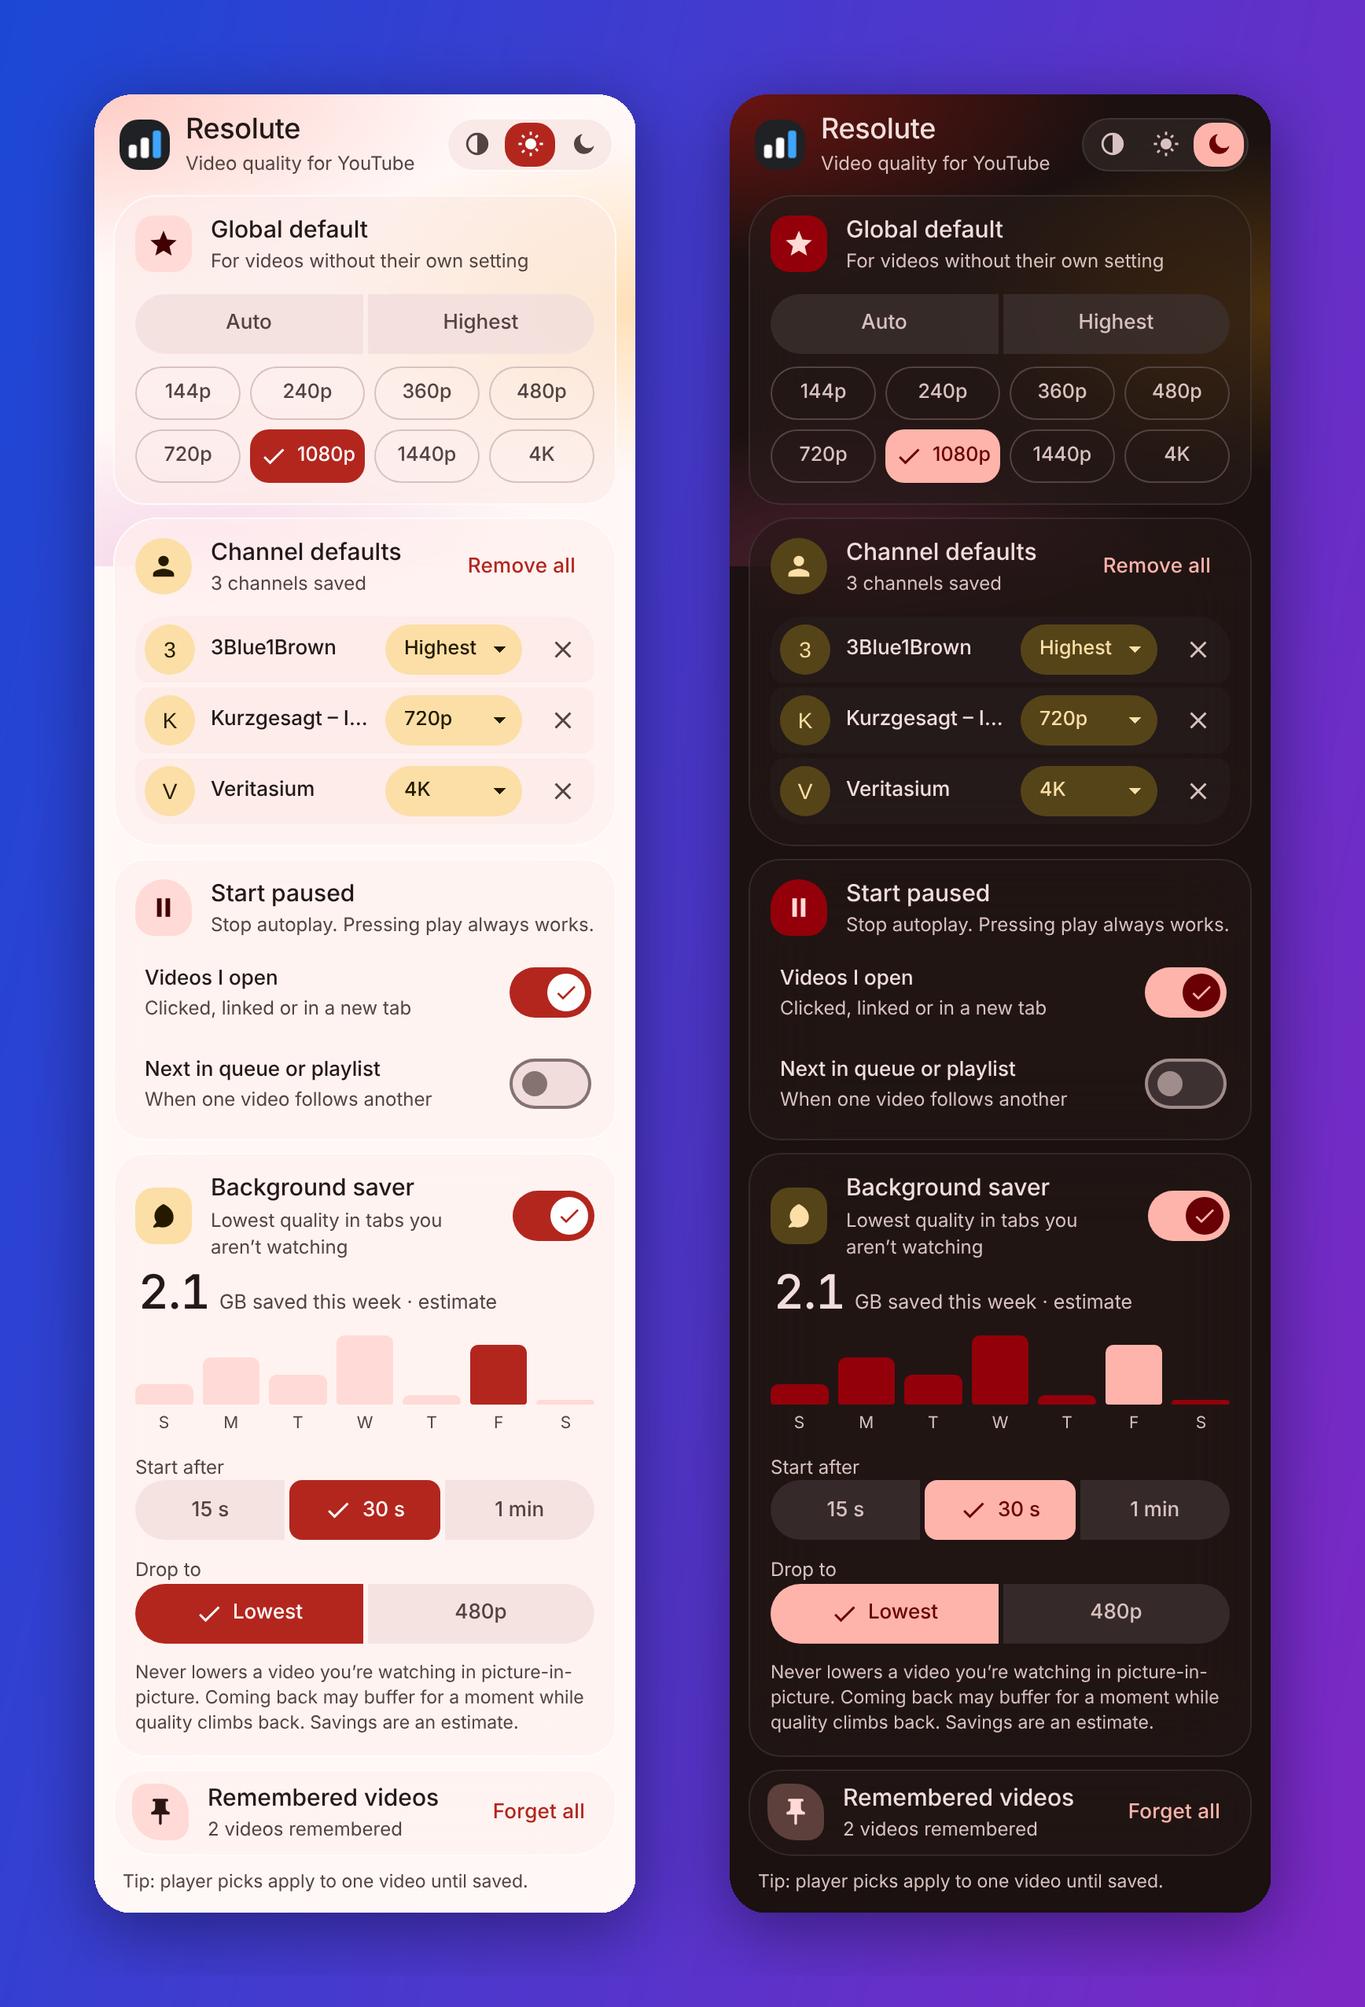
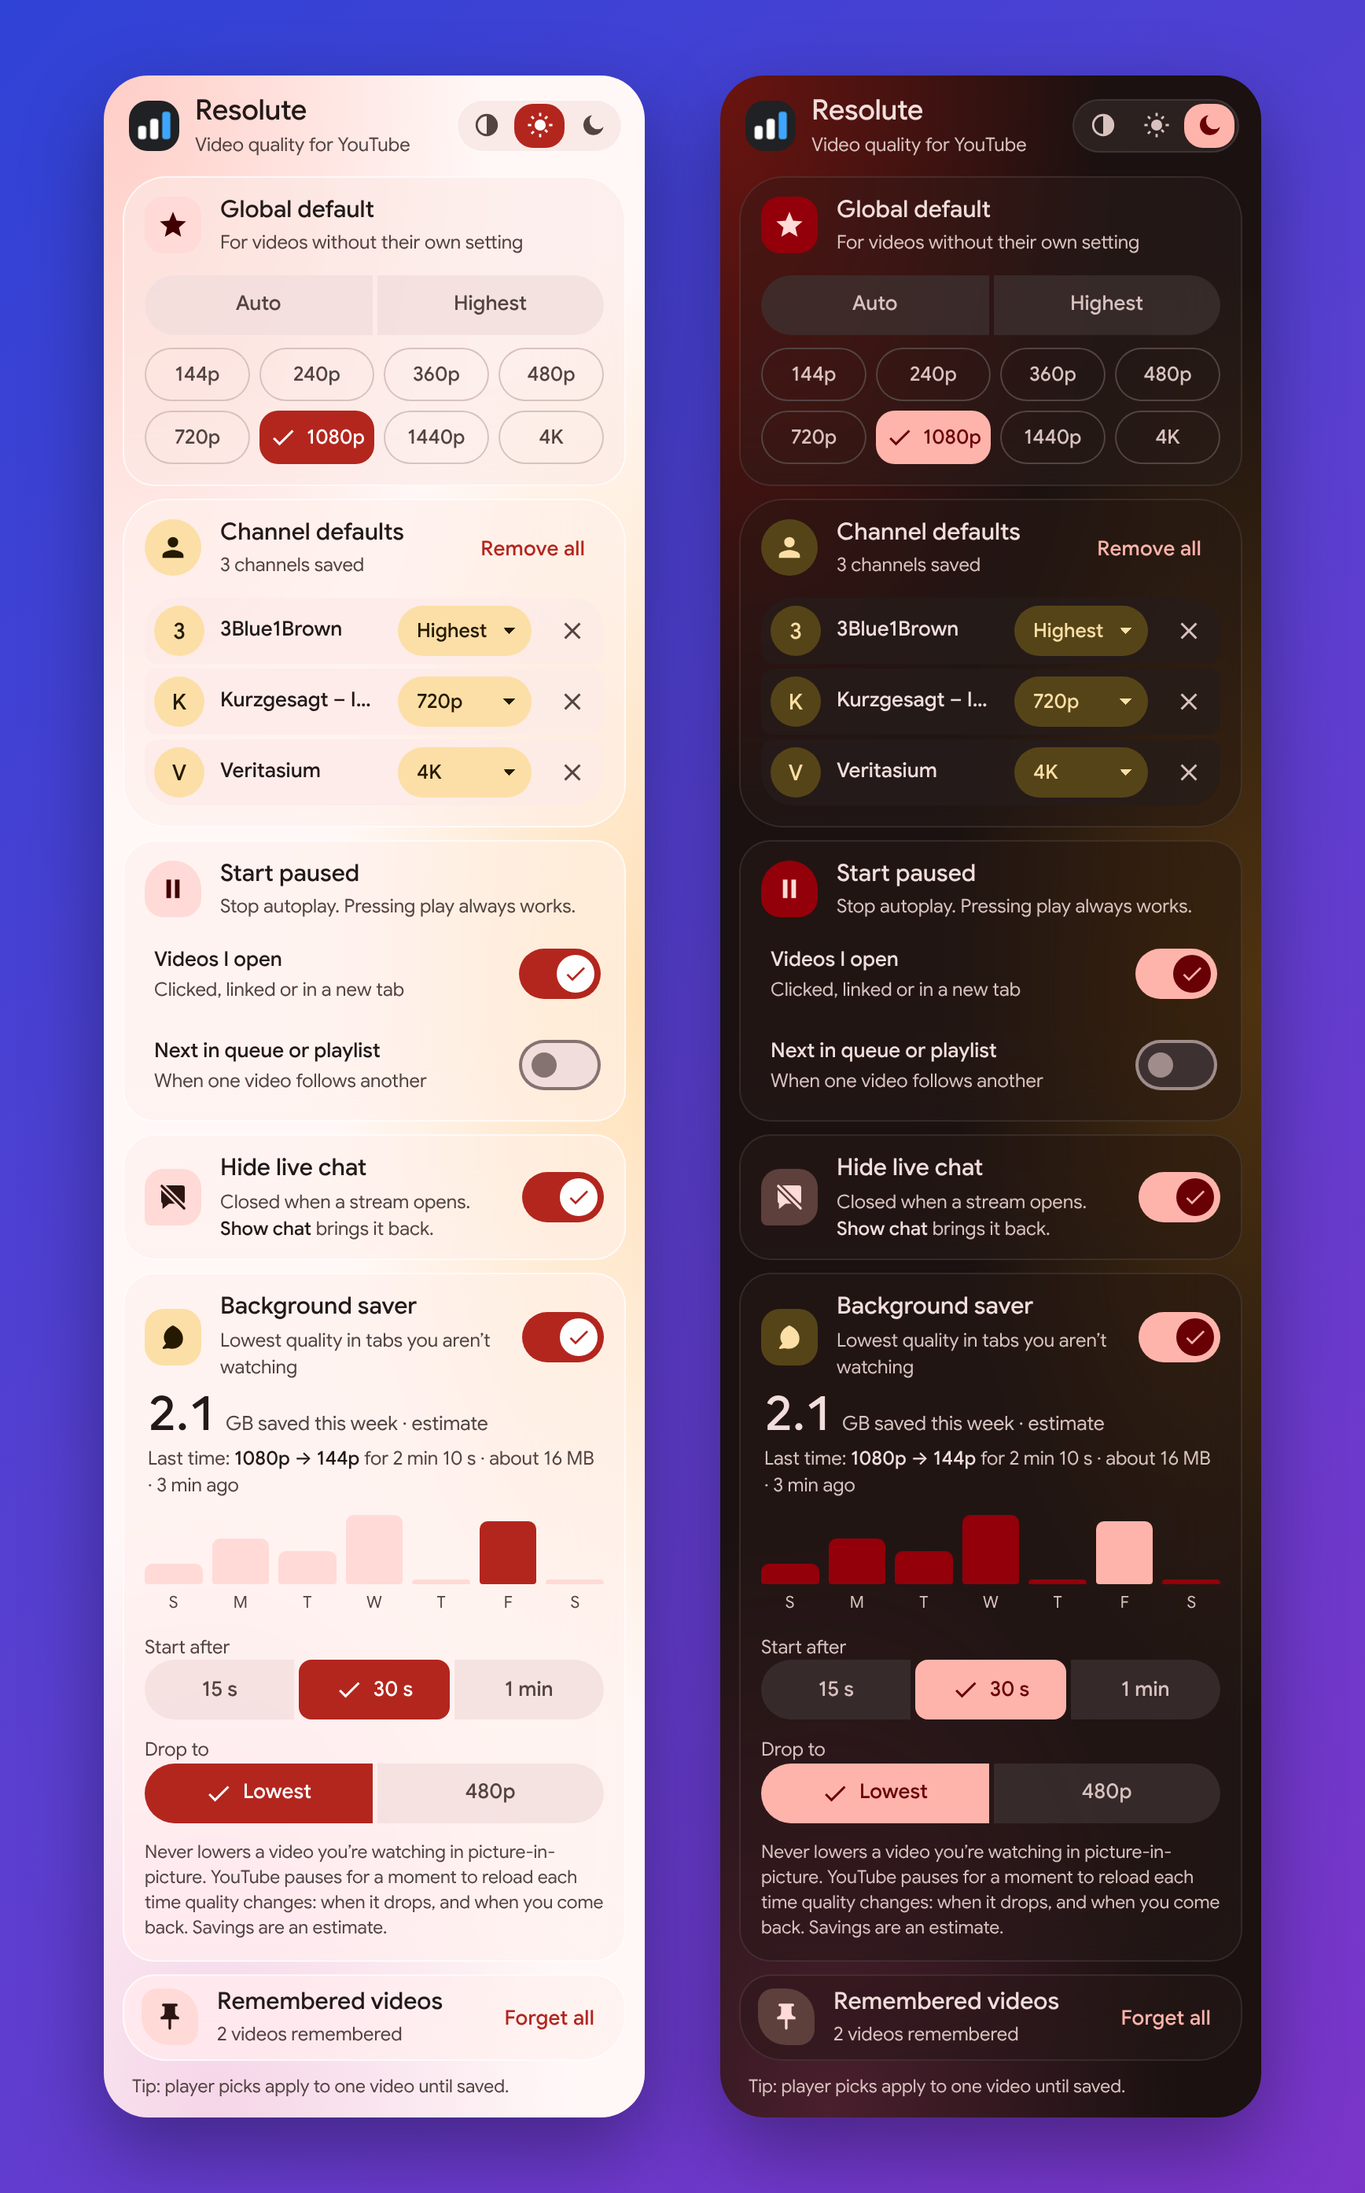
Docs: hide live chat in README, privacy policy and store listings; refresh popup screenshot
Claude-Session: https://claude.ai/code/session_017YcEW4ynsdhgFf3u9gFA3h

Changed region(s): [[0.0, 0.031, 0.4977, 1.0], [0.5288, 0.031, 0.9332, 0.9906]]

diff --git a/README.md b/README.md
@@ -13,13 +13,14 @@
 <p align="center">
   <b>YouTube often picks a lower quality than you want, and starts videos before you're ready.</b><br>
   Resolute puts a quality button right in the player, remembers what you like per video and per channel,<br>
-  and, if you want, makes every video wait for <i>you</i> to press play, and saves data in tabs you aren't watching.
+  and, if you want, makes every video wait for <i>you</i> to press play, hides live chat, and saves data in tabs you aren't watching.
 </p>
 
 <p align="center">
   <a href="#install">Install</a> ·
   <a href="#quality">Quality button</a> ·
   <a href="#autoplay">No autoplay</a> ·
+  <a href="#chat">Hide live chat</a> ·
   <a href="#saver">Background saver</a> ·
   <a href="#popup">Popup</a> ·
   <a href="#faq">FAQ</a> ·
@@ -141,6 +142,23 @@ Keyboard: Tab to the button (it unfolds), Enter toggles both, ↓ opens the menu
 
 ---
 
+<a id="chat"></a>
+## 💬 Hide live chat
+
+Off by default. Switch it on in the toolbar popup.
+
+When you open a live stream, a premiere or a stream replay, Resolute closes the chat panel beside the video. It uses **YouTube's own close button**, so nothing on the page is broken or hidden in a way YouTube doesn't know about.
+
+| Situation | What happens |
+|:---|:---|
+| You open a stream that has chat | The chat closes as soon as it has loaded |
+| You click YouTube's **Show chat** | The chat opens and **stays open** for that video |
+| You open the next stream | Its chat closes again |
+| A normal video (no chat) | Nothing happens |
+| The creator turned chat off | Nothing happens; Resolute stops looking after about a minute |
+
+---
+
 <a id="saver"></a>
 ## 🍃 Background saver
 
@@ -181,6 +199,7 @@ The popup card also shows roughly how much data it saved **this week (Sunday to 
 
 - Set the **global default** quality.
 - Switch **Videos I open** and **Next in queue or playlist** to start paused.
+- Switch **Hide live chat** on or off.
 - Switch the **Background saver** on or off, choose when it starts and how low it goes, and see this week's estimate.
 - See every **channel default**: change its quality, remove it (×), or **Remove all**.
 - Clear remembered videos with **Forget all**.
@@ -221,7 +240,7 @@ Each has its own rules; see the [Chrome guide, section 5](docs/PUBLISHING.md#5-l
 <details>
 <summary><b>Does it send my data anywhere?</b></summary>
 
-No. There's no code that makes network requests. Your global default, the two autoplay settings and the saver setting are kept in your browser's synced extension storage; remembered videos, channel defaults and the saver's daily estimates stay on this device only. Full details in the [privacy policy](PRIVACY.md).
+No. There's no code that makes network requests. Your global default, the two autoplay settings, the hide-live-chat setting and the saver setting are kept in your browser's synced extension storage; remembered videos, channel defaults and the saver's daily estimates stay on this device only. Full details in the [privacy policy](PRIVACY.md).
 </details>
 
 <details>
@@ -239,7 +258,7 @@ From the permanent channel ID (`UC…`) in YouTube's own player data for the vid
 <details>
 <summary><b>Will it break if YouTube changes its layout?</b></summary>
 
-Playback is never affected. If YouTube moves its controls, the quality button falls back to a small floating control above the progress bar. If YouTube redesigns its top bar, the autoplay button may not appear, but the popup switch keeps working.
+Playback is never affected. If YouTube moves its controls, the quality button falls back to a small floating control above the progress bar. If YouTube redesigns its top bar, the autoplay button may not appear, but the popup switch keeps working. If YouTube changes its live chat panel, the chat simply stays open; nothing else is affected.
 </details>
 
 <details>
@@ -260,6 +279,7 @@ No. Shorts and m.youtube.com use a different player. The autoplay settings also 
 - "Next in queue or playlist" means the previous video played to its end and you didn't click or type before the next one started. If you click something in that moment, the next video counts as one you opened.
 - Material 3 Expressive spring motion uses CSS `linear()` easing (Chrome 113+, Firefox 112+). On Chrome 111–112 the button works the same, just without animation.
 - Channel defaults need the channel ID from YouTube's player data (`getPlayerResponse`). If YouTube stops providing it, videos fall back to the global default ("Channel not detected"). Nothing wrong is applied.
+- **Hide live chat** clicks the close button inside YouTube's chat panel. If YouTube renames that button, the chat just stays open until Resolute is updated. Chat that loads more than about a minute after the page opens is left open.
 - Remembered videos and channel defaults stay on the device where you saved them (not synced).
 - "Auto" after a forced quality uses `setPlaybackQualityRange('auto')`; verify on a real video.
 
@@ -272,10 +292,10 @@ No. Shorts and m.youtube.com use a different player. The autoplay settings also 
 
 | File | Job |
 |:---|:---|
-| `page.js` | Runs in YouTube's page (the "MAIN" world) so it can use the player's own methods. Adds the quality button + menu, applies the quality on every new video, waits for ads. Adds the autoplay button beside the search box and, per your two autoplay settings, pauses a video the first time it starts by itself (telling "opened" apart from "next in queue"). Shows "Video waiting" on that button while a video is held, and runs the background saver (tab hidden, not in picture-in-picture), including the tab title and icon. |
+| `page.js` | Runs in YouTube's page (the "MAIN" world) so it can use the player's own methods. Adds the quality button + menu, applies the quality on every new video, waits for ads. Adds the autoplay button beside the search box and, per your two autoplay settings, pauses a video the first time it starts by itself (telling "opened" apart from "next in queue"). Shows "Video waiting" on that button while a video is held, closes the live chat panel once per video if you asked for it, and runs the background saver (tab hidden, not in picture-in-picture), including the tab title and icon. |
 | `background.js` | Tells each YouTube tab whether it's the selected tab of its window (Vivaldi keeps background tabs "visible" to pages; the page then checks it's no longer drawn), and shows the "Background saver: 144p" notification while a tab is lowered, cleared when you return. |
-| `content.js` | Bridge to extension storage: the global default, the two autoplay settings and the saver setting (all synced), the saver's daily estimates (this device, last 21 days), remembered videos (this device, newest 1,000) and channel defaults (this device, newest 2,000). Validates every message and drops corrupted entries. |
-| `popup.*` | The toolbar popup: global default, the two autoplay switches, the background saver and its weekly estimate, channel defaults, remembered videos, theme, and a fix for switched-off YouTube access. |
+| `content.js` | Bridge to extension storage: the global default, the two autoplay settings, the hide-live-chat setting and the saver setting (all synced), the saver's daily estimates (this device, last 21 days), remembered videos (this device, newest 1,000) and channel defaults (this device, newest 2,000). Validates every message and drops corrupted entries. |
+| `popup.*` | The toolbar popup: global default, the two autoplay switches, hide live chat, the background saver and its weekly estimate, channel defaults, remembered videos, theme, and a fix for switched-off YouTube access. |
 
 The two scripts talk through `window.postMessage`. No build step, no bundler, no libraries.
 </details>
@@ -307,6 +327,7 @@ Runs the scripts against a fake YouTube player and fake storage. They cover:
 - **Channel defaults:** switching channels, missing or stale channel IDs, renamed channels, corrupted data.
 - **Autoplay settings:** "opened" vs. "next in queue" detection, each setting on its own, your play never undone, ads skipped, search-box typing and menu clicks not counted as play, switching on never pausing the video already playing.
 - **Autoplay button:** unfolding, toggling both, the menu, keyboard, following the popup; "Video waiting" with every play method, your own pause staying quiet, a different video clearing it.
+- **Hide live chat:** off by default, waits until the chat has loaded, closes it once per video so **Show chat** stays open, closes it again on the next stream, leaves it alone when switched off.
 - **Background saver:** off by default, the delay, lowest or 480p, the tab title and icon, the next playlist video staying low, picture-in-picture never lowered or counted, paused time not counted, daily estimates kept for 21 days.
 </details>
 

diff --git a/store/LISTING-FIREFOX.md b/store/LISTING-FIREFOX.md
@@ -54,6 +54,10 @@ No autoplay (optional)
 • Switch them with the button next to YouTube's search box (it unfolds when you point at it) or in the toolbar popup.
 • When Resolute holds a video, the button says "Video waiting" with a Play button. Pressing play any other way works too.
 
+Hide live chat (optional)
+• The chat beside a live stream or stream replay closes when the video opens, using YouTube's own close button.
+• Click "Show chat" and it stays open for that video.
+
 Background saver (optional)
 • Playing a video in a tab you aren't looking at? Quality drops to the lowest (or 480p) after 15 s, 30 s or 1 min, and comes back when you return.
 • The tab title and icon show when it's saving. Videos in picture-in-picture are never lowered.
@@ -64,7 +68,7 @@ Details
 • Works on youtube.com and on YouTube videos embedded in other websites.
 • Waits for ads to finish before applying your quality.
 • Keyboard friendly: Tab to the button, arrow keys to move, Enter to choose, Esc to close.
-• The toolbar icon lets you set your global default, switch the two autoplay settings and the background saver, see, edit and remove channel defaults, and clear remembered videos.
+• The toolbar icon lets you set your global default, switch the two autoplay settings, hide live chat and the background saver, see, edit and remove channel defaults, and clear remembered videos.
 
 Privacy
 Your settings stay in your browser. The extension sends no data anywhere and has no analytics or ads.
@@ -105,6 +109,7 @@ Tell me which one and I'll add a matching `LICENSE` file to the repo.
 - page.js runs in the MAIN world because YouTube's player methods (getAvailableQualityLevels, setPlaybackQualityRange, getPlayerResponse on #movie_player) are only reachable from the page. getPlayerResponse is used only to read the current video's channel ID (videoDetails.channelId) for per-channel defaults. content.js bridges to extension storage via window.postMessage; all incoming values are validated against an allow-list.
 - How to test: open any youtube.com video. A quality button (shows "Max" by default) appears left of the player's settings gear. Pick a quality: it applies to that video only. "Remember for this video" / "Make default for all videos" at the bottom of the menu save the choice. No login required.
 - Autoplay settings (both off by default): a button is added next to YouTube's search box, plus two switches in the toolbar popup. "Videos I open" and "Next in queue or playlist" are two booleans in storage.sync ("holdOpened", "holdNext"). When one applies, page.js calls the player's pauseVideo() once, the first time a video starts on its own; "next" means the previous video ended with no user input since. Plays started by the user (pointer in the player, K/Space/media keys within the last second) are never paused.
+- Hide live chat (off by default; boolean "hideChat" in storage.sync): on a /watch page with a ytd-live-chat-frame, page.js reads the same-origin chat iframe (#chatframe) and, once the chat has loaded, calls click() on YouTube's own close button (yt-live-chat-header-renderer #close-button button), once per video. It polls every 500 ms and stops after the click or about 60 s. No network requests.
 - Background saver (off by default; stored as "bgSaver" in storage.sync): on document "visibilitychange" to hidden, page.js waits the chosen delay, then lowers quality with setPlaybackQualityRange only if the video is playing, not an ad and document.pictureInPictureElement is empty; it restores on return or "enterpictureinpicture". background.js also listens to tabs.onActivated and tells YouTube tabs (tabs.query by URL, covered by the host permission; no "tabs" permission) whether they are the selected tab, because some Chromium browsers never report background tabs as hidden. A non-selected tab is only treated as away once requestAnimationFrame stops firing (about 1.5 s), so split or tiled tabs that are still on screen are left alone. On start, it shows one browser notification (the 'notifications' permission) with the video title and quality, cleared on return. While lowered it prefixes document.title and swaps the page's own <link rel="icon"> href for an inline SVG data: URL, and restores both. An estimate of MB saved per day (date → number, last 21 days) is kept in storage.local for the popup. No network requests.
 ```
 

diff --git a/PRIVACY.md b/PRIVACY.md
@@ -12,6 +12,7 @@ Resolute: Video Quality Control ("the extension") lets you choose the video qual
 |---|---|---|
 | Your **default quality** (for example "1080p" or "Highest available") | When you pick a default in the popup or click **Make default for all videos** in the player menu | Your browser's extension storage (`storage.sync`). If you have turned on Chrome Sync or Firefox Sync, your browser copies this setting to your other signed-in browsers. That copying is done by your browser and your Google or Mozilla account, not by the extension or its developer. |
 | Your two **autoplay settings** ("Videos I open" and "Next in queue or playlist", each on or off) | When you switch them in the toolbar popup or with the button next to YouTube's search box | Your browser's extension storage (`storage.sync`), synced by your browser like the default quality. |
+| Your **hide live chat** setting (on or off) | When you switch it in the toolbar popup | Your browser's extension storage (`storage.sync`), synced by your browser like the default quality. |
 | Your **background saver** setting (on or off, when it starts, how low it goes) | When you change it in the toolbar popup | Your browser's extension storage (`storage.sync`), synced by your browser like the default quality. |
 | The saver's **last run** (when, the quality before and after, how long, about how many MB) | Each time the background saver has lowered a video | Your browser's local extension storage (`storage.local`), on this device only. Only the most recent run is kept (or, if it didn't lower the video, the reason), and it doesn't include which video it was. |
 | The saver's **daily estimate** of data saved (for example `2026-10-23 → 140 MB`) | Only while the background saver is on, after it has lowered a video | Your browser's local extension storage (`storage.local`), on this device only. It is never synced. Only the last 21 days are kept. It holds a date and a number, nothing about which videos you watched. |

diff --git a/store/LISTING.md b/store/LISTING.md
@@ -40,7 +40,11 @@ NO AUTOPLAY (OPTIONAL)
 • Switch them with the button next to YouTube's search box (it unfolds when you point at it) or in the toolbar popup.
 • When Resolute holds a video, the button says "Video waiting" with a Play button. Pressing play any other way works too.
 
-Background saver (optional)
+HIDE LIVE CHAT (OPTIONAL)
+• The chat beside a live stream or stream replay closes when the video opens, using YouTube's own close button.
+• Click "Show chat" and it stays open for that video.
+
+BACKGROUND SAVER (OPTIONAL)
 • Playing a video in a tab you aren't looking at? Quality drops to the lowest (or 480p) after 15 s, 30 s or 1 min, and comes back when you return.
 • The tab title and icon show when it's saving. Videos in picture-in-picture are never lowered.
 • The popup shows roughly how much data it saved this week (an estimate).
@@ -50,7 +54,7 @@ DETAILS
 • Works on youtube.com and on YouTube videos embedded in other websites.
 • Waits for ads to finish before applying your quality.
 • Keyboard friendly: Tab to the button, arrow keys to move, Enter to choose, Esc to close.
-• The toolbar icon lets you set your global default, switch the two autoplay settings and the background saver, see, edit and remove channel defaults, and clear remembered videos.
+• The toolbar icon lets you set your global default, switch the two autoplay settings, hide live chat and the background saver, see, edit and remove channel defaults, and clear remembered videos.
 
 PRIVACY
 Your settings stay in your browser. The extension sends no data anywhere and has no analytics or ads.
